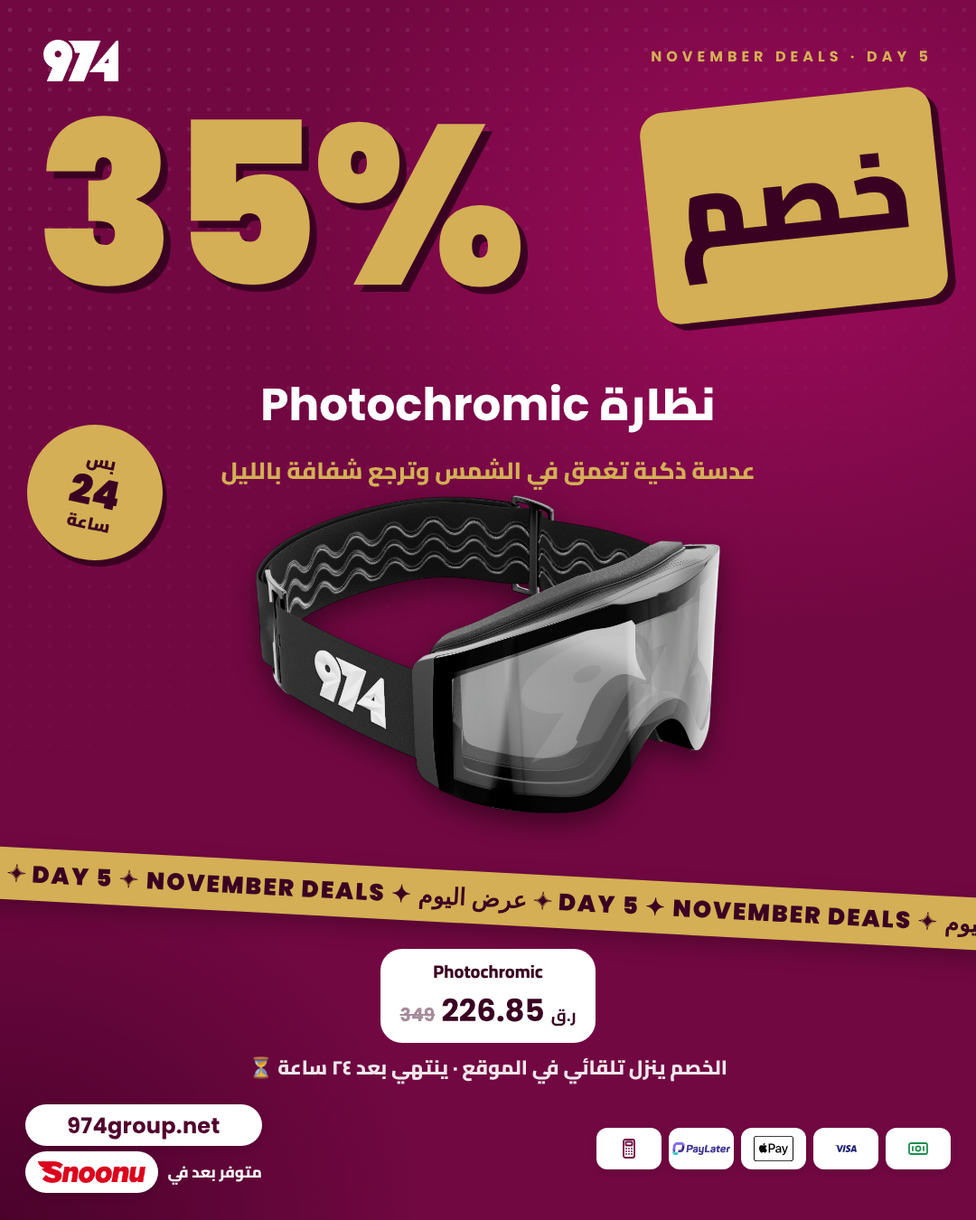
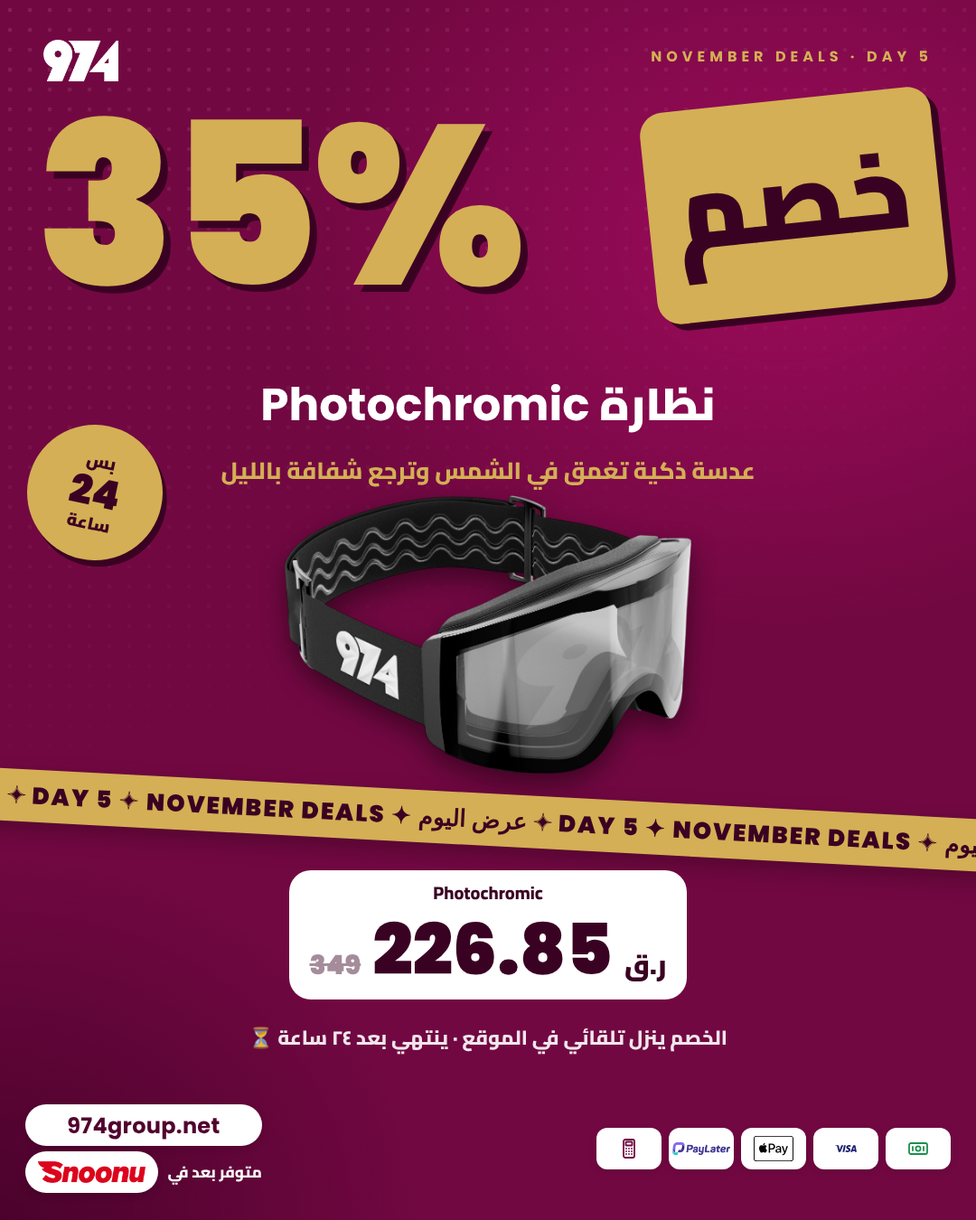
Day 5: bigger new price
Claude-Session: https://claude.ai/code/session_01K6HDWNrArsGSJekW1VcEzV

Changed region(s): [[0.0, 0.4044, 1.0, 0.9022]]

diff --git a/posts/2026-11/nov-deals/out/974-nov-deals-day5-photochromic-story.html b/posts/2026-11/nov-deals/out/974-nov-deals-day5-photochromic-story.html
@@ -1,0 +1,56 @@
+<!doctype html><html><head><meta charset="utf-8"><style>@font-face{font-family:'Cairo';font-weight:400 900;src:url(file:///tmp/claude-0/-home-claude/bcc2c2d5-4d57-5df4-9795-f402b1a1cd9a/scratchpad/aw/fonts/cairo-SLXVc1nY6HkvangtZmpQdkhzfH5lkSscQyyS8p4_RHH1.woff2)}
+@font-face{font-family:'Cairo';font-weight:400 900;src:url(file:///tmp/claude-0/-home-claude/bcc2c2d5-4d57-5df4-9795-f402b1a1cd9a/scratchpad/aw/fonts/cairo-SLXVc1nY6HkvangtZmpQdkhzfH5lkSscRiyS8p4_RA.woff2);unicode-range:U+0000-00FF}
+@font-face{font-family:'Poppins';font-weight:700;src:url(file:///usr/share/fonts/truetype/google-fonts/Poppins-Bold.ttf)}
+@font-face{font-family:'PoppinsB';font-weight:900;src:url(file:///usr/share/fonts/truetype/google-fonts/Poppins-Black.ttf)}
+*{margin:0;padding:0;box-sizing:border-box}
+body{width:1080px;height:1920px;font-family:Cairo;color:#fff;position:relative;overflow:hidden;
+background:radial-gradient(900px 700px at 80% 20%,#9C0B5A 0%,transparent 60%),radial-gradient(800px 700px at 0% 100%,#4A022B 0%,transparent 60%),#720842}
+.dots{position:absolute;inset:0;background-image:radial-gradient(rgba(255,255,255,.10) 2.2px,transparent 2.6px);background-size:22px 22px;-webkit-mask-image:linear-gradient(160deg,#000 0%,transparent 55%);mask-image:linear-gradient(160deg,#000 0%,transparent 55%)}
+.tape{position:absolute;left:-120px;width:1320px;height:58px;display:flex;align-items:center;overflow:hidden;box-shadow:0 10px 24px rgba(0,0,0,.25)}
+.tape span{white-space:nowrap;font-family:PoppinsB;font-weight:900;font-size:26px;letter-spacing:2px}
+.logo{position:absolute;height:46px}
+.pf{position:absolute;left:28px;right:28px;bottom:250px}
+
+.payfoot{display:flex;align-items:center;justify-content:space-between;direction:rtl;gap:17px}
+.payfoot .pills{display:flex;gap:8px;direction:rtl}
+.payfoot .ch{display:flex;flex-direction:column;align-items:center;gap:3px}
+.payfoot .ch .lg{width:80px;height:51px;background:#fff;border-radius:13px;display:flex;align-items:center;justify-content:center;box-shadow:0 3px 8px rgba(0,0,0,.12);overflow:hidden}
+.payfoot .ch .lg svg{height:26px!important;width:auto!important}
+.payfoot .ch.applepay .lg svg{height:49px!important}
+.payfoot .ch .lg img{height:15px!important}
+.payfoot .ch i{display:none;font-style:normal;font-size:14px;color:#fff;font-weight:700;font-family:Cairo;white-space:nowrap}
+.payfoot .av{display:flex;flex-direction:column;align-items:stretch;gap:6px;font-family:Cairo;font-weight:800;font-size:19px;color:#fff;white-space:nowrap}
+.payfoot .av .chip{background:#fff;border-radius:33px;height:51px;padding:0 15px;display:flex;align-items:center;box-shadow:0 3px 8px rgba(0,0,0,.12)}
+.payfoot .av .chip img{height:26px}
+.payfoot .av .chip.site{gap:6px;padding:0 13px}
+.payfoot .av .chip.site img{height:22px}
+.payfoot .av .row{display:flex;align-items:center;justify-content:space-between;gap:11px}
+.payfoot .av .site{background:#fff;border-radius:33px;height:51px;padding:0 22px;display:flex;align-items:center;justify-content:center;box-shadow:0 3px 8px rgba(0,0,0,.12);font-family:Poppins;font-weight:700;font-size:26px;letter-spacing:.3px;color:#51022D;direction:ltr}
+.payfoot .av .chip b{font-family:Poppins;font-weight:700;font-size:16px;color:#51022D}
+
+.big{font-family:PoppinsB;font-weight:900;line-height:.8;letter-spacing:-6px;direction:ltr}
+.out{color:transparent;-webkit-text-stroke:4px #D4AF55}
+.khasm{display:inline-block;background:#D4AF55;color:#3A0222;font-weight:900;border-radius:26px;transform:rotate(-6deg);box-shadow:8px 8px 0 #3A0222}
+.sticker{position:absolute;width:190px;height:190px;border-radius:50%;background:#D4AF55;color:#3A0222;display:flex;flex-direction:column;align-items:center;justify-content:center;text-align:center;transform:rotate(12deg);box-shadow:6px 6px 0 #3A0222;font-weight:900;line-height:1.1}
+</style></head><body><div class="dots"></div>
+<img class="logo" src="file:///home/claude/974-social/posts/2026-11/pilates-socks/src/logo-white.png" style="left:48px;top:270px">
+<div style="position:absolute;right:48px;top:274px;font-family:Poppins;font-weight:700;font-size:16px;letter-spacing:5px;color:#D4AF55">NOVEMBER DEALS · DAY 5</div>
+<div style="position:absolute;left:40px;right:40px;top:370px;display:flex;align-items:center;justify-content:space-between;direction:rtl">
+  <span class="khasm" style="font-size:132px;padding:0 30px 14px;background:#D4AF55">خصم</span>
+  <span class="big" style="font-size:280px;color:#D4AF55;text-shadow:8px 8px 0 #3A0222">35%</span>
+</div>
+<div style="position:absolute;left:0;right:0;top:700px;text-align:center;direction:rtl">
+  <div style="font-weight:900;font-size:56px">نظارة <span style="font-family:Poppins">Photochromic</span></div>
+  <div style="font-weight:800;font-size:29px;color:#D4AF55;margin-top:2px">عدسة ذكية تغمق في الشمس وترجع شفافة بالليل</div>
+</div>
+<img src="file:///home/claude/974-social/posts/2026-11/goggles-guide/cut/photochromic.png" style="position:absolute;left:240px;top:870px;width:600px;height:330px;object-fit:contain;filter:drop-shadow(0 12px 14px rgba(0,0,0,.45))">
+<div class="sticker" style="left:30px;top:775px;width:150px;height:150px"><span style="font-size:19px">بس</span><span style="font-family:PoppinsB;font-size:44px">24</span><span style="font-size:19px">ساعة</span></div>
+<div class="tape" style="top:1225px;transform:rotate(3deg);background:#D4AF55;color:#3A0222"><span>عرض اليوم  ✦  DAY 5  ✦  NOVEMBER DEALS  ✦  عرض اليوم  ✦  DAY 5  ✦  NOVEMBER DEALS  ✦  عرض اليوم  ✦  DAY 5  ✦  NOVEMBER DEALS  ✦  عرض اليوم  ✦  DAY 5  ✦  NOVEMBER DEALS  ✦  عرض اليوم  ✦  DAY 5  ✦  NOVEMBER DEALS  ✦  عرض اليوم  ✦  DAY 5  ✦  NOVEMBER DEALS  ✦  عرض اليوم  ✦  DAY 5  ✦  NOVEMBER DEALS  ✦  عرض اليوم  ✦  DAY 5  ✦  NOVEMBER DEALS  ✦  عرض اليوم  ✦  DAY 5  ✦  NOVEMBER DEALS  ✦  عرض اليوم  ✦  DAY 5  ✦  NOVEMBER DEALS  ✦  عرض اليوم  ✦  DAY 5  ✦  NOVEMBER DEALS  ✦  عرض اليوم  ✦  DAY 5  ✦  NOVEMBER DEALS  ✦  </span></div>
+<div style="position:absolute;left:48px;right:48px;top:1305px;display:flex;justify-content:center;gap:16px;direction:rtl"><div style="background:#fff;color:#3A0222;border-radius:24px;padding:6px 22px 10px;text-align:center"><div style="font-weight:800;font-size:22px">Photochromic</div><div style="font-family:PoppinsB;font-weight:900;font-size:87px;line-height:1.15;direction:ltr"><s style="opacity:.45;font-size:.38em;text-decoration-thickness:3px">349</s> 226.85 <small style="font-family:Cairo;font-size:.38em">ر.ق</small></div></div></div>
+<div style="position:absolute;left:0;right:0;top:1484px;text-align:center;direction:rtl;font-weight:800;font-size:24px;opacity:.9">الخصم ينزل تلقائي في الموقع · ينتهي بعد ٢٤ ساعة ⏳</div><div class="pf"><div class="payfoot"><div class="pills">
+<div class="ch"><div class="lg"><svg viewBox="0 0 24 24" style="height:54px" fill="none" stroke="#1E8E4E" stroke-width="1.8" stroke-linecap="round" stroke-linejoin="round"><rect x="2" y="6" width="20" height="12" rx="2"/><circle cx="12" cy="12" r="2.6"/><path d="M6 10v4M18 10v4"/></svg></div><i>كاش</i></div>
+<div class="ch"><div class="lg"><svg fill="#1A1F71" style="height:120px;width:150px" xmlns="http://www.w3.org/2000/svg" viewBox="0 0 24 24"><path d="M9.112 8.262 5.97 15.758H3.92L2.374 9.775c-.094-.368-.175-.503-.461-.658C1.447 8.864.677 8.627 0 8.479l.046-.217h3.3a.904.904 0 0 1 .894.764l.817 4.338 2.018-5.102zm8.033 5.049c.008-1.979-2.736-2.088-2.717-2.972.006-.269.262-.555.822-.628a3.66 3.66 0 0 1 1.913.336l.34-1.59a5.2 5.2 0 0 0-1.814-.333c-1.917 0-3.266 1.02-3.278 2.479-.012 1.079.963 1.68 1.698 2.04.756.367 1.01.603 1.006.931-.005.504-.602.725-1.16.734-.975.015-1.54-.263-1.992-.473l-.351 1.642c.453.208 1.289.39 2.156.398 2.037 0 3.37-1.006 3.377-2.564m5.061 2.447H24l-1.565-7.496h-1.656a.88.88 0 0 0-.826.55l-2.909 6.946h2.036l.405-1.12h2.488zm-2.163-2.656 1.02-2.815.588 2.815zm-8.16-4.84-1.603 7.496H8.34l1.605-7.496z"/></svg></div><i>Visa</i></div>
+<div class="ch applepay"><div class="lg"><svg viewBox="0 0 24 24" fill="#000" style="height:120px;width:150px"><path d="m2.15 4.318-.454.003c-.15.005-.303.013-.452.04a1.44 1.44 0 0 0-1.06.772c-.07.138-.114.278-.14.43-.028.148-.037.3-.04.45L0 6.222v11.557q0 .104.003.207c.004.15.013.303.04.452q.039.224.142.429a1.44 1.44 0 0 0 .63.63c.138.07.278.115.43.142.148.027.3.036.45.04l.208.003h20.194l.207-.003c.15-.004.303-.013.452-.04s.291-.071.428-.141a1.43 1.43 0 0 0 .631-.631c.07-.138.115-.278.141-.43.027-.148.036-.3.04-.45q.003-.104.003-.208l.001-.246V6.221q0-.104-.004-.207a3 3 0 0 0-.04-.452 1.45 1.45 0 0 0-1.2-1.201 3 3 0 0 0-.452-.04 11 11 0 0 0-.453-.003zm0 .512h19.942q.098 0 .197.003c.115.004.25.01.375.032.109.02.2.05.287.094a.93.93 0 0 1 .407.407 1 1 0 0 1 .094.288c.022.123.028.258.031.374q.003.097.003.197v11.552q0 .097-.003.196c-.003.115-.009.25-.032.375a.93.93 0 0 1-.5.693 1 1 0 0 1-.286.094 3 3 0 0 1-.373.032l-.2.003H1.906q-.1 0-.196-.003a3 3 0 0 1-.375-.032c-.109-.02-.2-.05-.288-.094a.9.9 0 0 1-.406-.407 1 1 0 0 1-.094-.288 2.5 2.5 0 0 1-.032-.373l-.002-.197V6.224q0-.098.002-.197c.004-.114.01-.248.032-.375.02-.108.05-.199.094-.287a.93.93 0 0 1 .407-.406 1 1 0 0 1 .287-.094c.125-.022.26-.029.375-.032q.098-.002.196-.003zm4.71 3.7c-.3.016-.668.199-.88.456-.191.22-.36.58-.316.918.338.03.675-.169.888-.418.205-.258.345-.603.308-.955zm2.207.42v5.493h.852v-1.877h1.18c1.078 0 1.835-.739 1.835-1.812 0-1.07-.742-1.805-1.808-1.805zm.852.719h.982c.739 0 1.161.396 1.161 1.089 0 .692-.422 1.092-1.164 1.092h-.979zm-3.154.3c-.45.01-.83.28-1.05.28-.235 0-.593-.264-.981-.257a1.45 1.45 0 0 0-1.23.747c-.527.908-.139 2.255.374 2.995.249.366.549.769.944.754.373-.014.52-.242.973-.242.454 0 .586.242.98.235.41-.007.667-.366.915-.733.286-.417.403-.82.41-.841-.007-.008-.79-.308-.797-1.209-.008-.754.615-1.113.644-1.135-.352-.52-.9-.578-1.09-.593zm8.204.397c-.99 0-1.606.533-1.652 1.256h.777c.072-.358.369-.586.845-.586.502 0 .803.266.803.711v.309l-1.097.064c-.951.054-1.488.484-1.488 1.184 0 .72.548 1.207 1.332 1.207.526 0 1.032-.281 1.264-.727h.019v.659h.788v-2.76c0-.803-.62-1.317-1.591-1.317m1.94.072 1.446 4.009c0 .003-.073.24-.073.247-.125.41-.33.571-.711.571-.069 0-.206 0-.267-.015v.666c.06.011.267.019.335.019.83 0 1.226-.312 1.568-1.283l1.5-4.214h-.868l-1.012 3.259h-.015l-1.013-3.26zm-1.167 2.189v.316c0 .521-.45.917-1.024.917-.442 0-.731-.228-.731-.579 0-.342.278-.56.769-.593z"/></svg></div><i>Apple Pay</i></div>
+<div class="ch"><div class="lg"><img src="file:///home/claude/974-social/reels/2026-11/pilates/end/logos/paylater.png" style="height:40px"></div><i>أقساط</i></div>
+<div class="ch"><div class="lg"><svg viewBox="0 0 24 24" style="height:54px" fill="none" stroke="#720842" stroke-width="1.8" stroke-linecap="round" stroke-linejoin="round"><rect x="6" y="2" width="12" height="20" rx="2"/><rect x="8.5" y="4.5" width="7" height="4" rx=".6"/><path d="M9 12h.01M12 12h.01M15 12h.01M9 15h.01M12 15h.01M15 15h.01M9 18h.01M12 18h.01M15 18h.01"/></svg></div><i>بطاقة عند الاستلام</i></div>
+</div><div class="av"><div class="site">974group.net</div><div class="row"><span>متوفر بعد في</span><div class="chip"><img src="file:///home/claude/974-social/reels/2026-11/pilates/end/logos/snoonu.png"></div></div></div></div></div></body></html>

diff --git a/posts/2026-11/nov-deals/out/974-nov-deals-day5-photochromic-post.html b/posts/2026-11/nov-deals/out/974-nov-deals-day5-photochromic-post.html
@@ -1,0 +1,56 @@
+<!doctype html><html><head><meta charset="utf-8"><style>@font-face{font-family:'Cairo';font-weight:400 900;src:url(file:///tmp/claude-0/-home-claude/bcc2c2d5-4d57-5df4-9795-f402b1a1cd9a/scratchpad/aw/fonts/cairo-SLXVc1nY6HkvangtZmpQdkhzfH5lkSscQyyS8p4_RHH1.woff2)}
+@font-face{font-family:'Cairo';font-weight:400 900;src:url(file:///tmp/claude-0/-home-claude/bcc2c2d5-4d57-5df4-9795-f402b1a1cd9a/scratchpad/aw/fonts/cairo-SLXVc1nY6HkvangtZmpQdkhzfH5lkSscRiyS8p4_RA.woff2);unicode-range:U+0000-00FF}
+@font-face{font-family:'Poppins';font-weight:700;src:url(file:///usr/share/fonts/truetype/google-fonts/Poppins-Bold.ttf)}
+@font-face{font-family:'PoppinsB';font-weight:900;src:url(file:///usr/share/fonts/truetype/google-fonts/Poppins-Black.ttf)}
+*{margin:0;padding:0;box-sizing:border-box}
+body{width:1080px;height:1350px;font-family:Cairo;color:#fff;position:relative;overflow:hidden;
+background:radial-gradient(900px 700px at 80% 20%,#9C0B5A 0%,transparent 60%),radial-gradient(800px 700px at 0% 100%,#4A022B 0%,transparent 60%),#720842}
+.dots{position:absolute;inset:0;background-image:radial-gradient(rgba(255,255,255,.10) 2.2px,transparent 2.6px);background-size:22px 22px;-webkit-mask-image:linear-gradient(160deg,#000 0%,transparent 55%);mask-image:linear-gradient(160deg,#000 0%,transparent 55%)}
+.tape{position:absolute;left:-120px;width:1320px;height:58px;display:flex;align-items:center;overflow:hidden;box-shadow:0 10px 24px rgba(0,0,0,.25)}
+.tape span{white-space:nowrap;font-family:PoppinsB;font-weight:900;font-size:26px;letter-spacing:2px}
+.logo{position:absolute;height:46px}
+.pf{position:absolute;left:28px;right:28px;bottom:30px}
+
+.payfoot{display:flex;align-items:center;justify-content:space-between;direction:rtl;gap:16px}
+.payfoot .pills{display:flex;gap:8px;direction:rtl}
+.payfoot .ch{display:flex;flex-direction:column;align-items:center;gap:3px}
+.payfoot .ch .lg{width:72px;height:46px;background:#fff;border-radius:12px;display:flex;align-items:center;justify-content:center;box-shadow:0 3px 8px rgba(0,0,0,.12);overflow:hidden}
+.payfoot .ch .lg svg{height:24px!important;width:auto!important}
+.payfoot .ch.applepay .lg svg{height:44px!important}
+.payfoot .ch .lg img{height:14px!important}
+.payfoot .ch i{display:none;font-style:normal;font-size:13px;color:#fff;font-weight:700;font-family:Cairo;white-space:nowrap}
+.payfoot .av{display:flex;flex-direction:column;align-items:stretch;gap:6px;font-family:Cairo;font-weight:800;font-size:17px;color:#fff;white-space:nowrap}
+.payfoot .av .chip{background:#fff;border-radius:30px;height:46px;padding:0 14px;display:flex;align-items:center;box-shadow:0 3px 8px rgba(0,0,0,.12)}
+.payfoot .av .chip img{height:24px}
+.payfoot .av .chip.site{gap:6px;padding:0 12px}
+.payfoot .av .chip.site img{height:20px}
+.payfoot .av .row{display:flex;align-items:center;justify-content:space-between;gap:10px}
+.payfoot .av .site{background:#fff;border-radius:30px;height:46px;padding:0 20px;display:flex;align-items:center;justify-content:center;box-shadow:0 3px 8px rgba(0,0,0,.12);font-family:Poppins;font-weight:700;font-size:24px;letter-spacing:.3px;color:#51022D;direction:ltr}
+.payfoot .av .chip b{font-family:Poppins;font-weight:700;font-size:15px;color:#51022D}
+
+.big{font-family:PoppinsB;font-weight:900;line-height:.8;letter-spacing:-6px;direction:ltr}
+.out{color:transparent;-webkit-text-stroke:4px #D4AF55}
+.khasm{display:inline-block;background:#D4AF55;color:#3A0222;font-weight:900;border-radius:26px;transform:rotate(-6deg);box-shadow:8px 8px 0 #3A0222}
+.sticker{position:absolute;width:190px;height:190px;border-radius:50%;background:#D4AF55;color:#3A0222;display:flex;flex-direction:column;align-items:center;justify-content:center;text-align:center;transform:rotate(12deg);box-shadow:6px 6px 0 #3A0222;font-weight:900;line-height:1.1}
+</style></head><body><div class="dots"></div>
+<img class="logo" src="file:///home/claude/974-social/posts/2026-11/pilates-socks/src/logo-white.png" style="left:48px;top:44px">
+<div style="position:absolute;right:48px;top:50px;font-family:Poppins;font-weight:700;font-size:16px;letter-spacing:5px;color:#D4AF55">NOVEMBER DEALS · DAY 5</div>
+<div style="position:absolute;left:40px;right:40px;top:110px;display:flex;align-items:center;justify-content:space-between;direction:rtl">
+  <span class="khasm" style="font-size:118px;padding:0 30px 14px;background:#D4AF55">خصم</span>
+  <span class="big" style="font-size:250px;color:#D4AF55;text-shadow:8px 8px 0 #3A0222">35%</span>
+</div>
+<div style="position:absolute;left:0;right:0;top:400px;text-align:center;direction:rtl">
+  <div style="font-weight:900;font-size:50px">نظارة <span style="font-family:Poppins">Photochromic</span></div>
+  <div style="font-weight:800;font-size:26px;color:#D4AF55;margin-top:2px">عدسة ذكية تغمق في الشمس وترجع شفافة بالليل</div>
+</div>
+<img src="file:///home/claude/974-social/posts/2026-11/goggles-guide/cut/photochromic.png" style="position:absolute;left:260px;top:548px;width:560px;height:308px;object-fit:contain;filter:drop-shadow(0 12px 14px rgba(0,0,0,.45))">
+<div class="sticker" style="left:30px;top:470px;width:150px;height:150px"><span style="font-size:19px">بس</span><span style="font-family:PoppinsB;font-size:44px">24</span><span style="font-size:19px">ساعة</span></div>
+<div class="tape" style="top:878px;transform:rotate(3deg);background:#D4AF55;color:#3A0222"><span>عرض اليوم  ✦  DAY 5  ✦  NOVEMBER DEALS  ✦  عرض اليوم  ✦  DAY 5  ✦  NOVEMBER DEALS  ✦  عرض اليوم  ✦  DAY 5  ✦  NOVEMBER DEALS  ✦  عرض اليوم  ✦  DAY 5  ✦  NOVEMBER DEALS  ✦  عرض اليوم  ✦  DAY 5  ✦  NOVEMBER DEALS  ✦  عرض اليوم  ✦  DAY 5  ✦  NOVEMBER DEALS  ✦  عرض اليوم  ✦  DAY 5  ✦  NOVEMBER DEALS  ✦  عرض اليوم  ✦  DAY 5  ✦  NOVEMBER DEALS  ✦  عرض اليوم  ✦  DAY 5  ✦  NOVEMBER DEALS  ✦  عرض اليوم  ✦  DAY 5  ✦  NOVEMBER DEALS  ✦  عرض اليوم  ✦  DAY 5  ✦  NOVEMBER DEALS  ✦  عرض اليوم  ✦  DAY 5  ✦  NOVEMBER DEALS  ✦  </span></div>
+<div style="position:absolute;left:48px;right:48px;top:963px;display:flex;justify-content:center;gap:16px;direction:rtl"><div style="background:#fff;color:#3A0222;border-radius:24px;padding:6px 22px 10px;text-align:center"><div style="font-weight:800;font-size:20px">Photochromic</div><div style="font-family:PoppinsB;font-weight:900;font-size:78px;line-height:1.15;direction:ltr"><s style="opacity:.45;font-size:.38em;text-decoration-thickness:3px">349</s> 226.85 <small style="font-family:Cairo;font-size:.38em">ر.ق</small></div></div></div>
+<div style="position:absolute;left:0;right:0;top:1127px;text-align:center;direction:rtl;font-weight:800;font-size:22px;opacity:.9">الخصم ينزل تلقائي في الموقع · ينتهي بعد ٢٤ ساعة ⏳</div><div class="pf"><div class="payfoot"><div class="pills">
+<div class="ch"><div class="lg"><svg viewBox="0 0 24 24" style="height:54px" fill="none" stroke="#1E8E4E" stroke-width="1.8" stroke-linecap="round" stroke-linejoin="round"><rect x="2" y="6" width="20" height="12" rx="2"/><circle cx="12" cy="12" r="2.6"/><path d="M6 10v4M18 10v4"/></svg></div><i>كاش</i></div>
+<div class="ch"><div class="lg"><svg fill="#1A1F71" style="height:120px;width:150px" xmlns="http://www.w3.org/2000/svg" viewBox="0 0 24 24"><path d="M9.112 8.262 5.97 15.758H3.92L2.374 9.775c-.094-.368-.175-.503-.461-.658C1.447 8.864.677 8.627 0 8.479l.046-.217h3.3a.904.904 0 0 1 .894.764l.817 4.338 2.018-5.102zm8.033 5.049c.008-1.979-2.736-2.088-2.717-2.972.006-.269.262-.555.822-.628a3.66 3.66 0 0 1 1.913.336l.34-1.59a5.2 5.2 0 0 0-1.814-.333c-1.917 0-3.266 1.02-3.278 2.479-.012 1.079.963 1.68 1.698 2.04.756.367 1.01.603 1.006.931-.005.504-.602.725-1.16.734-.975.015-1.54-.263-1.992-.473l-.351 1.642c.453.208 1.289.39 2.156.398 2.037 0 3.37-1.006 3.377-2.564m5.061 2.447H24l-1.565-7.496h-1.656a.88.88 0 0 0-.826.55l-2.909 6.946h2.036l.405-1.12h2.488zm-2.163-2.656 1.02-2.815.588 2.815zm-8.16-4.84-1.603 7.496H8.34l1.605-7.496z"/></svg></div><i>Visa</i></div>
+<div class="ch applepay"><div class="lg"><svg viewBox="0 0 24 24" fill="#000" style="height:120px;width:150px"><path d="m2.15 4.318-.454.003c-.15.005-.303.013-.452.04a1.44 1.44 0 0 0-1.06.772c-.07.138-.114.278-.14.43-.028.148-.037.3-.04.45L0 6.222v11.557q0 .104.003.207c.004.15.013.303.04.452q.039.224.142.429a1.44 1.44 0 0 0 .63.63c.138.07.278.115.43.142.148.027.3.036.45.04l.208.003h20.194l.207-.003c.15-.004.303-.013.452-.04s.291-.071.428-.141a1.43 1.43 0 0 0 .631-.631c.07-.138.115-.278.141-.43.027-.148.036-.3.04-.45q.003-.104.003-.208l.001-.246V6.221q0-.104-.004-.207a3 3 0 0 0-.04-.452 1.45 1.45 0 0 0-1.2-1.201 3 3 0 0 0-.452-.04 11 11 0 0 0-.453-.003zm0 .512h19.942q.098 0 .197.003c.115.004.25.01.375.032.109.02.2.05.287.094a.93.93 0 0 1 .407.407 1 1 0 0 1 .094.288c.022.123.028.258.031.374q.003.097.003.197v11.552q0 .097-.003.196c-.003.115-.009.25-.032.375a.93.93 0 0 1-.5.693 1 1 0 0 1-.286.094 3 3 0 0 1-.373.032l-.2.003H1.906q-.1 0-.196-.003a3 3 0 0 1-.375-.032c-.109-.02-.2-.05-.288-.094a.9.9 0 0 1-.406-.407 1 1 0 0 1-.094-.288 2.5 2.5 0 0 1-.032-.373l-.002-.197V6.224q0-.098.002-.197c.004-.114.01-.248.032-.375.02-.108.05-.199.094-.287a.93.93 0 0 1 .407-.406 1 1 0 0 1 .287-.094c.125-.022.26-.029.375-.032q.098-.002.196-.003zm4.71 3.7c-.3.016-.668.199-.88.456-.191.22-.36.58-.316.918.338.03.675-.169.888-.418.205-.258.345-.603.308-.955zm2.207.42v5.493h.852v-1.877h1.18c1.078 0 1.835-.739 1.835-1.812 0-1.07-.742-1.805-1.808-1.805zm.852.719h.982c.739 0 1.161.396 1.161 1.089 0 .692-.422 1.092-1.164 1.092h-.979zm-3.154.3c-.45.01-.83.28-1.05.28-.235 0-.593-.264-.981-.257a1.45 1.45 0 0 0-1.23.747c-.527.908-.139 2.255.374 2.995.249.366.549.769.944.754.373-.014.52-.242.973-.242.454 0 .586.242.98.235.41-.007.667-.366.915-.733.286-.417.403-.82.41-.841-.007-.008-.79-.308-.797-1.209-.008-.754.615-1.113.644-1.135-.352-.52-.9-.578-1.09-.593zm8.204.397c-.99 0-1.606.533-1.652 1.256h.777c.072-.358.369-.586.845-.586.502 0 .803.266.803.711v.309l-1.097.064c-.951.054-1.488.484-1.488 1.184 0 .72.548 1.207 1.332 1.207.526 0 1.032-.281 1.264-.727h.019v.659h.788v-2.76c0-.803-.62-1.317-1.591-1.317m1.94.072 1.446 4.009c0 .003-.073.24-.073.247-.125.41-.33.571-.711.571-.069 0-.206 0-.267-.015v.666c.06.011.267.019.335.019.83 0 1.226-.312 1.568-1.283l1.5-4.214h-.868l-1.012 3.259h-.015l-1.013-3.26zm-1.167 2.189v.316c0 .521-.45.917-1.024.917-.442 0-.731-.228-.731-.579 0-.342.278-.56.769-.593z"/></svg></div><i>Apple Pay</i></div>
+<div class="ch"><div class="lg"><img src="file:///home/claude/974-social/reels/2026-11/pilates/end/logos/paylater.png" style="height:40px"></div><i>أقساط</i></div>
+<div class="ch"><div class="lg"><svg viewBox="0 0 24 24" style="height:54px" fill="none" stroke="#720842" stroke-width="1.8" stroke-linecap="round" stroke-linejoin="round"><rect x="6" y="2" width="12" height="20" rx="2"/><rect x="8.5" y="4.5" width="7" height="4" rx=".6"/><path d="M9 12h.01M12 12h.01M15 12h.01M9 15h.01M12 15h.01M15 15h.01M9 18h.01M12 18h.01M15 18h.01"/></svg></div><i>بطاقة عند الاستلام</i></div>
+</div><div class="av"><div class="site">974group.net</div><div class="row"><span>متوفر بعد في</span><div class="chip"><img src="file:///home/claude/974-social/reels/2026-11/pilates/end/logos/snoonu.png"></div></div></div></div></div></body></html>

diff --git a/posts/2026-11/nov-deals/gen.py b/posts/2026-11/nov-deals/gen.py
@@ -130,7 +130,7 @@ FB = '/home/claude/974-social/products/fitbit-silicone-v1/uni/'
 DR = '/home/claude/974-social/posts/2026-11/whoop5-silicone-all/cut/'
 
 
-def deal(story, day, title, sub, rows, cw, ch, rowgap, prices, note, extra='', pct='40%'):
+def deal(story, day, title, sub, rows, cw, ch, rowgap, prices, note, extra='', pct='40%', ps=1.0, tmin=None):
     """Generic daily-deal layout (same look as day 1/2). rows: list of lists of image paths."""
     o = 230 if story else 0
     k = 1.0 if not story else 1.12
@@ -143,8 +143,8 @@ def deal(story, day, title, sub, rows, cw, ch, rowgap, prices, note, extra='', p
         for i, f in enumerate(row):
             imgs += f'<img src="file://{f}" style="position:absolute;left:{x0+i*(cw+gap)}px;top:{y}px;width:{cw}px;height:{ch}px;object-fit:contain;filter:drop-shadow(0 12px 14px rgba(0,0,0,.45))">'
     after = top0 + len(rows) * rowgap
-    tape_y = max(after + 10, o + (965 if not story else 1045))
-    chips = ''.join(f'<div style="background:#fff;color:{DK};border-radius:24px;padding:6px 22px 10px;text-align:center"><div style="font-weight:800;font-size:{int(20*k)}px">{lab}</div><div style="font-family:Poppins;font-weight:700;font-size:{int(34*k)}px;direction:ltr"><s style="opacity:.45;font-size:.6em">{was}</s> {now} <small style="font-family:Cairo;font-size:.55em">ر.ق</small></div></div>' for lab, was, now in prices)
+    tape_y = max(after + 10, o + (965 if not story else 1045)) if tmin is None else max(after + 10, tmin)
+    chips = ''.join(f'<div style="background:#fff;color:{DK};border-radius:24px;padding:6px 22px 10px;text-align:center"><div style="font-weight:800;font-size:{int(20*k)}px">{lab}</div><div style="font-family:{'PoppinsB' if ps>1 else 'Poppins'};font-weight:{900 if ps>1 else 700};font-size:{int(34*k*ps)}px;line-height:1.15;direction:ltr"><s style="opacity:.45;font-size:{'.38em' if ps>1 else '.6em'};text-decoration-thickness:3px">{was}</s> {now} <small style="font-family:Cairo;font-size:{'.38em' if ps>1 else '.55em'}">ر.ق</small></div></div>' for lab, was, now in prices)
     body = f'''
 <img class="logo" src="file://{LOGOW}" style="left:48px;top:{o+40 if story else 44}px">
 <div style="position:absolute;right:48px;top:{(o+44) if story else 50}px;font-family:Poppins;font-weight:700;font-size:16px;letter-spacing:5px;color:{LIME}">NOVEMBER DEALS · DAY {day}</div>
@@ -160,7 +160,7 @@ def deal(story, day, title, sub, rows, cw, ch, rowgap, prices, note, extra='', p
 <div class="sticker" style="left:30px;top:{o+(470 if not story else 545)}px;width:150px;height:150px"><span style="font-size:19px">بس</span><span style="font-family:PoppinsB;font-size:44px">24</span><span style="font-size:19px">ساعة</span></div>
 {tape(tape_y, 3, f'عرض اليوم  ✦  DAY {day}  ✦  NOVEMBER DEALS', bg=GOLD)}
 <div style="position:absolute;left:48px;right:48px;top:{tape_y+(85 if not story else 80)}px;display:flex;justify-content:center;gap:16px;direction:rtl">{chips}</div>
-<div style="position:absolute;left:0;right:0;top:{tape_y+(195 if not story else 198)}px;text-align:center;direction:rtl;font-weight:800;font-size:{int(22*k)}px;opacity:.9">{note}</div>'''
+<div style="position:absolute;left:0;right:0;top:{tape_y+int((195 if not story else 198)+(ps-1)*42*k)}px;text-align:center;direction:rtl;font-weight:800;font-size:{int(22*k)}px;opacity:.9">{note}</div>'''
     return base(story, body)
 
 
@@ -185,9 +185,9 @@ GG = '/home/claude/974-social/posts/2026-11/goggles-guide/cut/'
 
 
 def day5(story):
-    cw = 640 if not story else 700
+    cw = 560 if not story else 600
     return deal(story, 5, 'نظارة <span style="font-family:Poppins">Photochromic</span>', 'عدسة ذكية تغمق في الشمس وترجع شفافة بالليل', [[GG + 'photochromic.png']], cw, int(cw * 0.55),
-                380 if not story else 420, [('Photochromic', '349', '226.85')], 'الخصم ينزل تلقائي في الموقع · ينتهي بعد ٢٤ ساعة ⏳', pct='35%')
+                320 if not story else 345, [('Photochromic', '349', '226.85')], 'الخصم ينزل تلقائي في الموقع · ينتهي بعد ٢٤ ساعة ⏳', pct='35%', ps=2.3, tmin=0)
 
 
 def shot(html, out, H):
